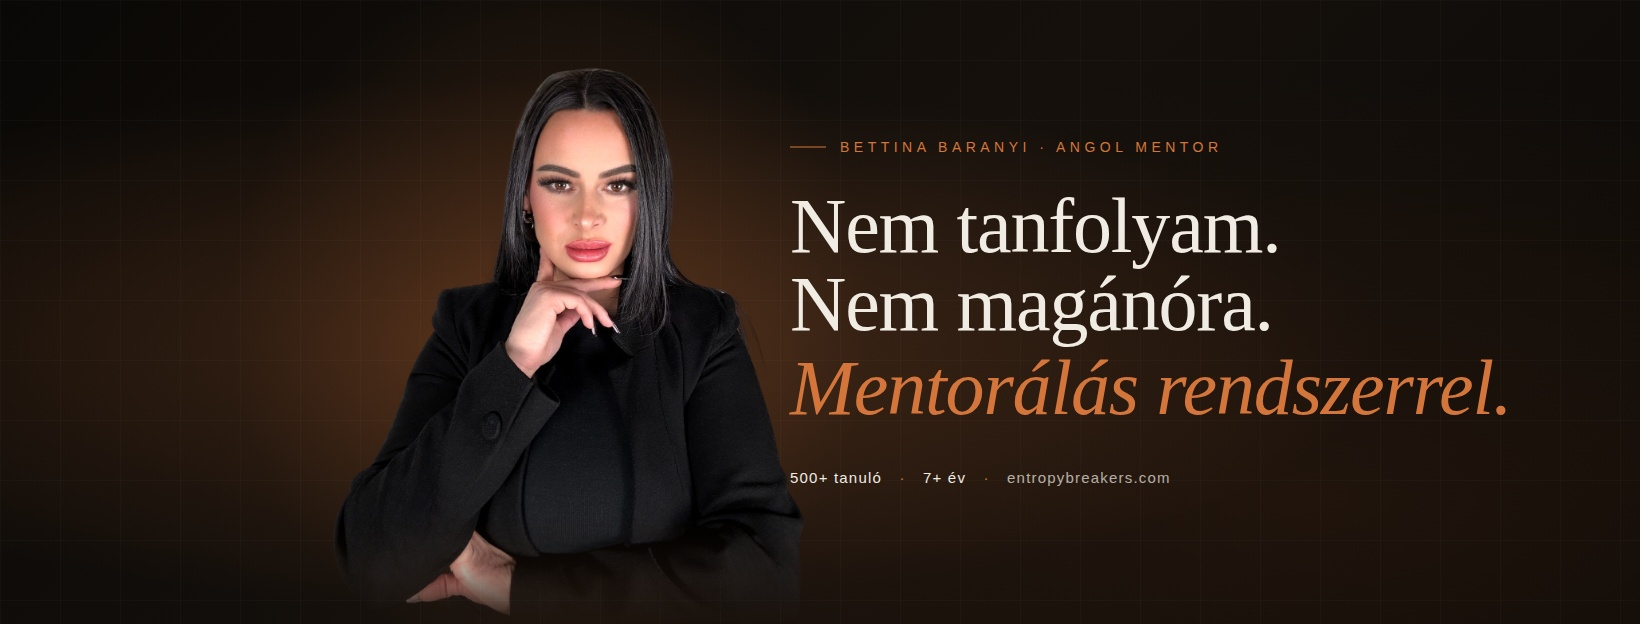
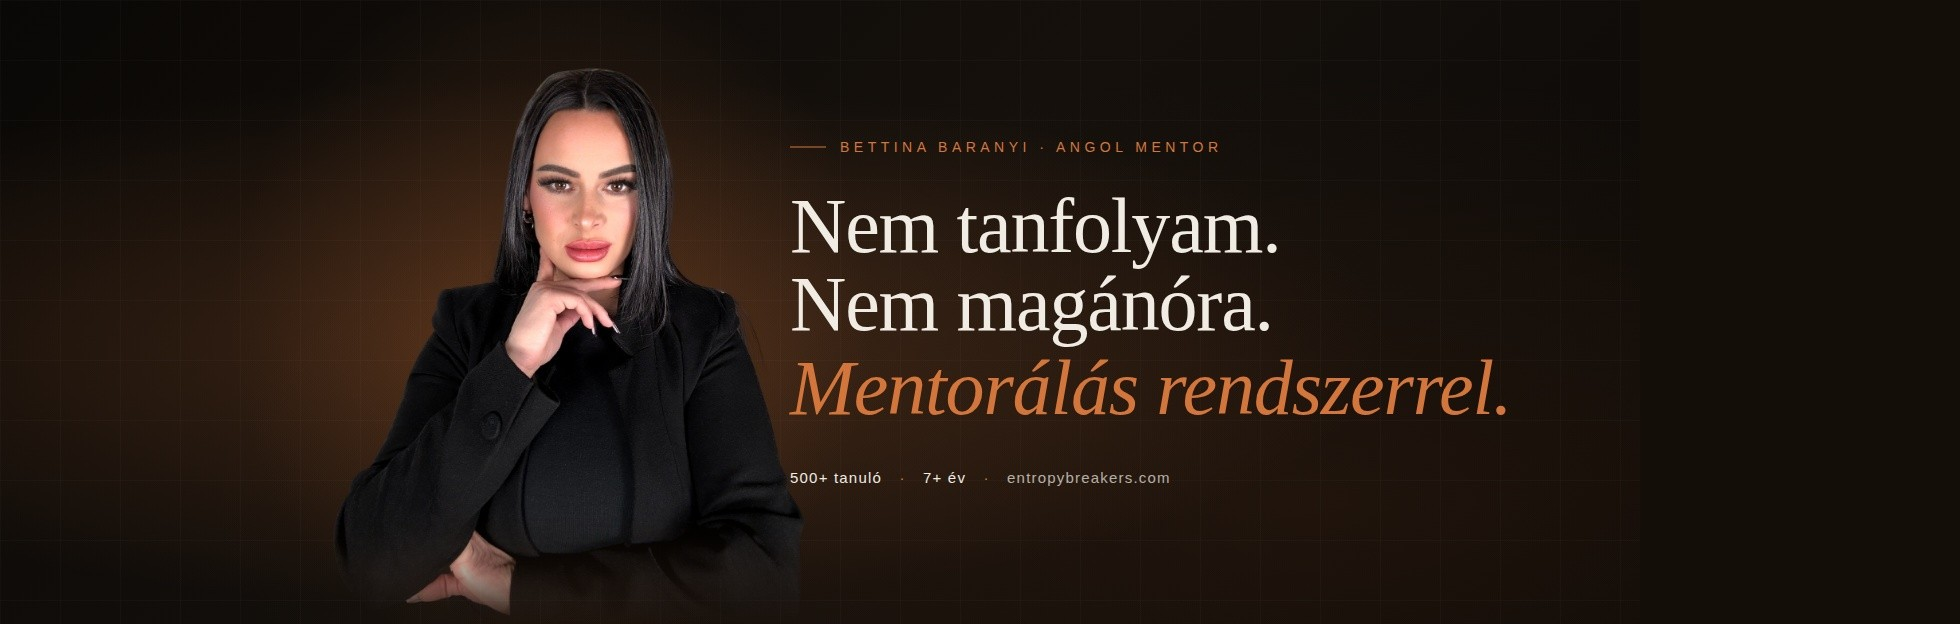
FB cover: jobb oldali 320px padding (1640→1960) → FB center-crop után 'rendszerrel' is látszik

Changed region(s): [[0.1866, 0.0913, 0.9329, 0.9744], [0.3421, 0.0913, 0.3732, 0.1218]]

diff --git a/index.html b/index.html
@@ -15,7 +15,7 @@
 <meta property="og:title" content="Bettina Baranyi · Angol mentor + saját tanulói rendszer">
 <meta property="og:description" content="Heti élő óra velem + egy tanulói platform, ami 24/7 gyakoroltat veled. Havidíjas csomagok 35 000 Ft-tól, ingyenes szintfelmérő. A te tempódban, ítélkezés nélkül.">
 <meta property="og:image" content="https://entropybreakers.com/images/fb-cover.jpg">
-<meta property="og:image:width" content="1640">
+<meta property="og:image:width" content="1960">
 <meta property="og:image:height" content="624">
 <meta property="og:image:alt" content="Bettina Baranyi — Entropy Breakers angol mentor">
 <meta property="og:locale" content="hu_HU">
